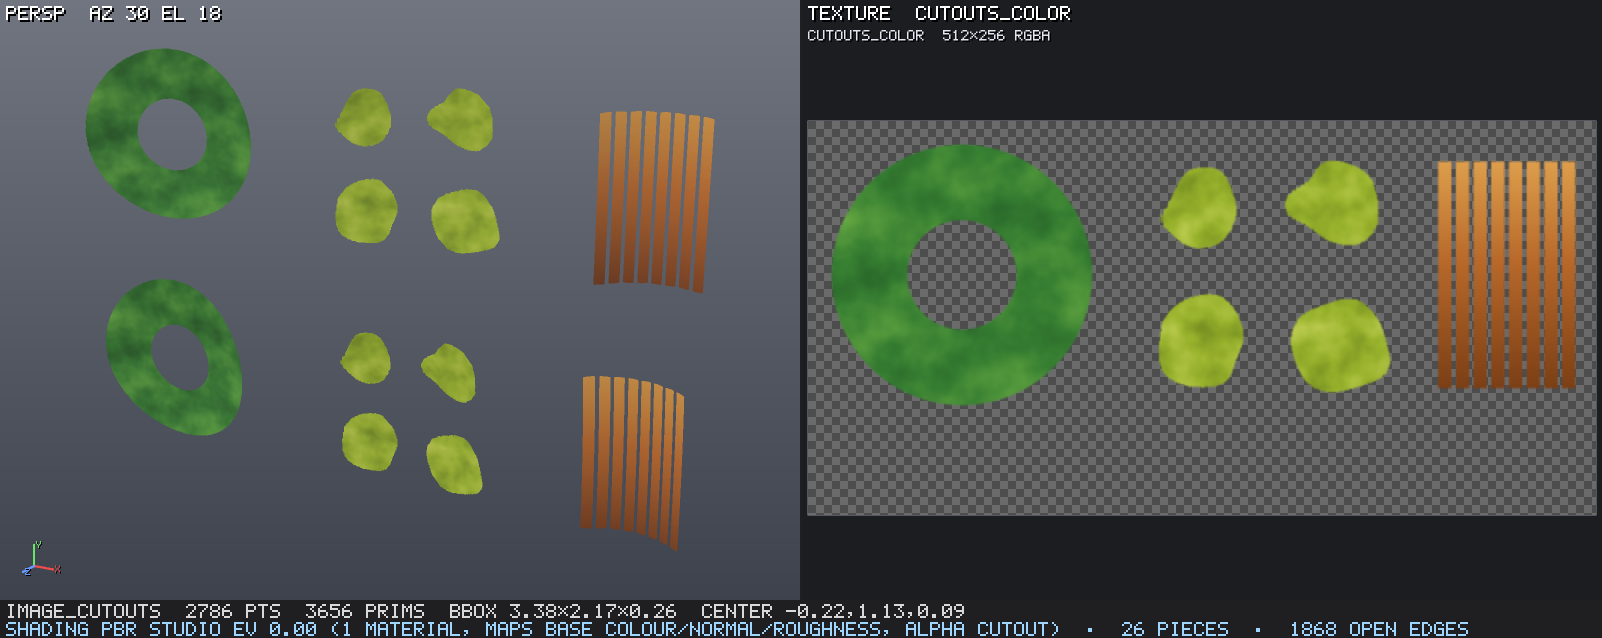
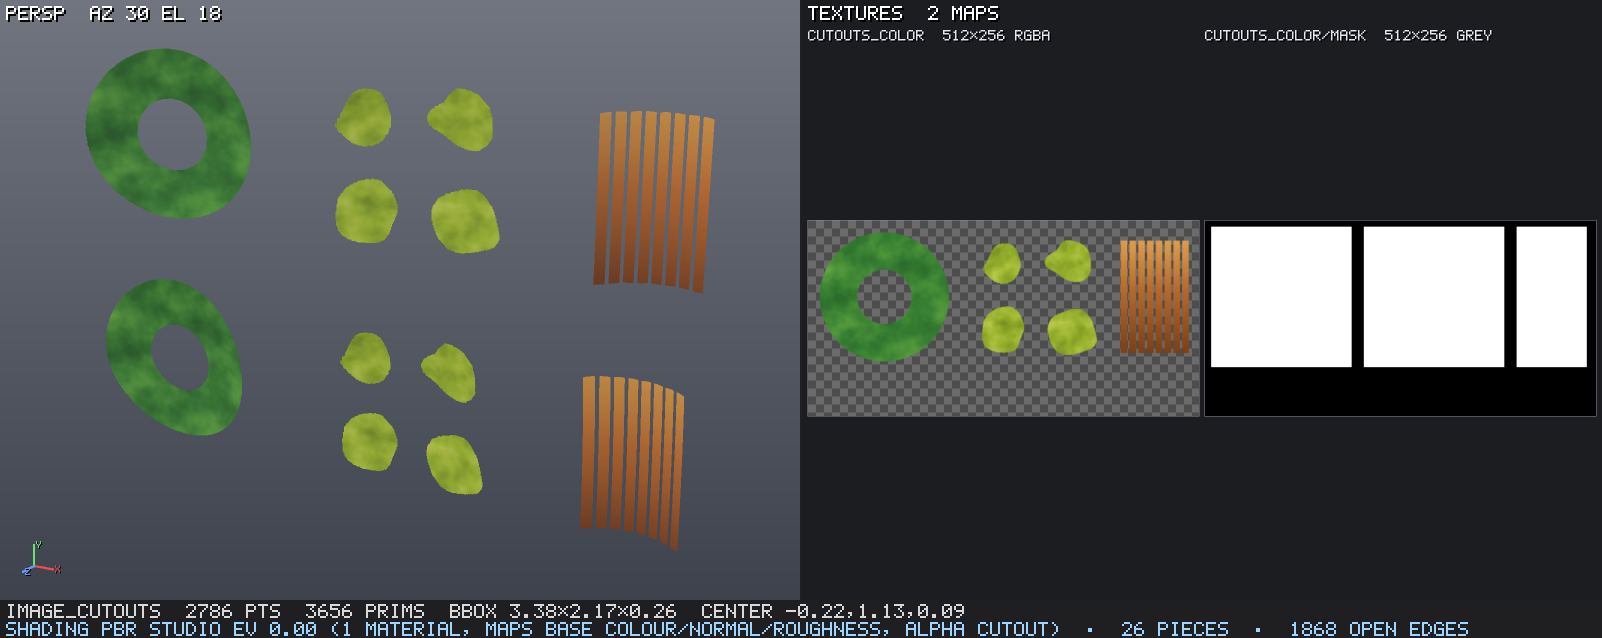
Goldens, node docs and the cutouts render for exact heightfield sizes and the pack's mask layer
Moved goldens, each confirmed from the diff: heightfield_to_tex image size 4.1 to 4 and eroded_valley image size 401.5625 to
400 (the image covers the extent, so the round trip is exact); tex_pack gains a mask layer, and so do the three images of
image_cutouts. The cutouts render differs only in its texture pane, which now lists the mask as a second map; the viewport is
unchanged.

Changed region(s): [[0.4994, 0.1787, 0.9988, 0.8339], [0.7491, 0.0298, 0.9363, 0.0893], [0.5618, 0.0, 0.6866, 0.0596]]

diff --git a/docs/nodes.md b/docs/nodes.md
@@ -2088,7 +2088,7 @@ Traces pixel-cell boundaries (not a bounding rectangle). Foreground is 4-connect
 | `threshold` | float | `0.5` |  |  |  | values at least this threshold are foreground |
 | `tolerance` | float | `0.5` | 0..8192 |  |  | maximum contour simplification error in source pixels; 0 only removes collinear points |
 | `min_area` | float | `0` | 0..16777216 |  |  | minimum connected foreground component area in pixels; 0 retains all components |
-| `extent` | float | `0` | 0.. |  |  | full image canvas width in metres; height follows image aspect (0 = the metres the image covers: its size) |
+| `extent` | float | `0` | 0.. |  |  | full image canvas width in metres; height follows image aspect (0 = the metres the image states it covers: texture_size set on its generator, or a bake; refused when it states none) |
 
 **Writes:** closed curves; point uv; prim class (component ID), contour_id and hole (0/1); detail image_size and image_width
 
@@ -2104,6 +2104,7 @@ Traces pixel-cell boundaries (not a bounding rectangle). Foreground is 4-connect
           64,
           32
         ],
+        "texture_size": 1,
         "shape": "disc",
         "falloff": 0
       }
@@ -13563,7 +13564,7 @@ Houdini COP: File; Substance: Bitmap. The image is named after this node, like e
 | `name` | string | `""` |  |  | `image_name`, `output_name` | image name ("" = this node's name); materials reference it as "image:<name>" |
 | `layers` | enum | `"auto"` |  | `auto`, `grey`, `rgba` | `channels` | auto = grey for grey PNGs (1–2 channels), RGBA for colour ones; grey = the luminance of a colour file; rgba = always four channels |
 | `srgb` | bool | `true` |  |  |  | the file holds display (sRGB) values: kept as stored, like every colour in the engine (masks and data maps load unchanged too); off = it holds linear-light colour, encoded to display values on load (alpha never) |
-| `texture_size` | float | `1` | 0.000001.. |  | `world_size`, `tile_size`, `image_width` | metres the image's width covers on the model (one texel is texture_size / width metres): the image carries it, and every filter after this node reads its lengths in metres against it |
+| `texture_size` | float | `1` | 0.000001.. |  | `world_size`, `tile_size`, `image_width` | metres the image's width covers on the model (one texel is texture_size / width metres): the image carries it, and every filter after this node reads its lengths in metres against it. Leave it out and the image has the size 1 m but states none: tex_to_heightfield and trace_image then need an extent |
 
 **Writes:** image <name> (default: the node name): C grey or RGBA 0..1; A grey (the file's alpha, for a grey image of a file with alpha)
 
@@ -13887,7 +13888,7 @@ Substance: Blur HQ; Houdini COP: Blur. blur is the radius in metres (gaussian: r
 
 | name | type | default | min..max | options | aliases | description |
 |---|---|---|---|---|---|---|
-| `blur` | float | `0.008` | 0.. |  | `blur_radius` | blur radius in metres (on an atlas: on every island, whatever its texel density) |
+| `blur` | float | `0.008` | 0.. |  | `blur_radius` | blur radius in metres (on an atlas: on every island, whatever its texel density). The default, 8 mm, is 4 pixels only on 512 pixels over 1 m: on another resolution or size it is another number of pixels |
 | `mode` | enum | `"gaussian"` |  | `gaussian`, `box` | `type`, `filter` | filter shape |
 | `tileable` | bool | `true` |  |  | `wrap`, `seamless` | the image tiles: filters read across the opposite border (keep a tileable texture tileable) |
 | `image` | string | `""` |  |  | `input_image`, `source_image` | which image of the input to use ("" = its only image; needed when it holds several) |
@@ -13942,7 +13943,7 @@ None (generator).
 | `edge_width` | float | `0.1` | 0.001..1 |  | `width`, `border` | edges: border width (fraction of a cell) |
 | `metric` | enum | `"euclidean"` |  | `euclidean`, `manhattan`, `chebyshev` |  | distance metric (manhattan = diamond cells, chebyshev = square cells) |
 | `tileable` | bool | `true` |  |  | `tile`, `tiling`, `seamless` | repeat seamlessly at the image borders |
-| `texture_size` | float | `1` | 0.000001.. |  | `world_size`, `tile_size`, `image_width` | metres the image's width covers on the model (one texel is texture_size / width metres): the image carries it, and every filter after this node reads its lengths in metres against it |
+| `texture_size` | float | `1` | 0.000001.. |  | `world_size`, `tile_size`, `image_width` | metres the image's width covers on the model (one texel is texture_size / width metres): the image carries it, and every filter after this node reads its lengths in metres against it. Leave it out and the image has the size 1 m but states none: tex_to_heightfield and trace_image then need an extent |
 | `seed` | float | `0` |  |  |  | random seed |
 | `name` | string | `""` |  |  | `image_name`, `output_name` | image name ("" = this node's name); materials reference it as "image:<name>" |
 
@@ -14163,7 +14164,7 @@ Substance: Uniform Color; Houdini COP: Constant. channels grey fills layer C wit
 | `value` | float | `0.5` |  |  | `grey`, `level` | grey: the value of every pixel |
 | `color` | color | `[0.5,0.5,0.5]` |  |  | `rgb`, `colour` | rgba: the colour of every pixel |
 | `alpha` | float | `1` | 0..1 |  |  | rgba: the alpha of every pixel |
-| `texture_size` | float | `1` | 0.000001.. |  | `world_size`, `tile_size`, `image_width` | metres the image's width covers on the model (one texel is texture_size / width metres): the image carries it, and every filter after this node reads its lengths in metres against it |
+| `texture_size` | float | `1` | 0.000001.. |  | `world_size`, `tile_size`, `image_width` | metres the image's width covers on the model (one texel is texture_size / width metres): the image carries it, and every filter after this node reads its lengths in metres against it. Leave it out and the image has the size 1 m but states none: tex_to_heightfield and trace_image then need an extent |
 | `image` | string | `""` |  |  | `input_image`, `source_image` | which image of input 0 (the size source) to use ("" = its only image; needed when it holds several) |
 | `name` | string | `""` |  |  | `image_name`, `output_name` | image name ("" = this node's name); materials reference it as "image:<name>" |
 
@@ -14426,7 +14427,7 @@ Validity comes from RGBA alpha or an explicit, same-sized mask. Grey images need
 | `image` | string | `""` |  |  | `input_image`, `source_image` | which image of the input to use ("" = its only image; needed when it holds several) |
 | `layer` | string | `""` |  |  |  | layer name (empty selects the main layer) |
 | `name` | string | `""` |  |  | `image_name`, `output_name` | name of the result ("" = this node's name; an image already so called is replaced); materials reference it as "image:<name>" |
-| `distance` | float | `0.016` | 0.. |  | `padding` | maximum Euclidean distance in metres from a valid source (on an atlas: on every island, whatever its texel density) |
+| `distance` | float | `0.016` | 0.. |  |  | maximum Euclidean distance in metres from a valid source (on an atlas: on every island, whatever its texel density). The default, 16 mm, is 8 pixels only on 512 pixels over 1 m: on another resolution or size it is another number of pixels |
 | `mask_image` | string | `""` |  |  |  | which image of input 1 (the mask) to use ("" = its only image; needed when it holds several) |
 | `mask_layer` | string | `""` |  |  |  | layer name (empty selects the main layer) |
 | `mask_channel` | enum | `"luminance"` |  | `alpha`, `luminance`, `r`, `g`, `b` |  | channel to read; alpha requires RGBA, luminance/R/G/B accept grey |
@@ -14724,7 +14725,7 @@ None (generator).
 | `angle` | float | `0` |  |  | `rotation`, `direction` | direction in degrees (linear, mirror) or start angle (angular) |
 | `center` | vec2 | `[0.5,0.5]` |  |  |  | centre in uv (radial, diamond, angular) |
 | `reach` | float | `0.5` | 0.001.. |  |  | radial / diamond: distance in metres from the centre where the gradient reaches 1 (a circle in metres whatever the image's shape) |
-| `texture_size` | float | `1` | 0.000001.. |  | `world_size`, `tile_size`, `image_width` | metres the image's width covers on the model (one texel is texture_size / width metres): the image carries it, and every filter after this node reads its lengths in metres against it |
+| `texture_size` | float | `1` | 0.000001.. |  | `world_size`, `tile_size`, `image_width` | metres the image's width covers on the model (one texel is texture_size / width metres): the image carries it, and every filter after this node reads its lengths in metres against it. Leave it out and the image has the size 1 m but states none: tex_to_heightfield and trace_image then need an extent |
 | `name` | string | `""` |  |  | `image_name`, `output_name` | image name ("" = this node's name); materials reference it as "image:<name>" |
 
 **Writes:** image <name> (default: the node name): C grey 0..1
@@ -14765,7 +14766,7 @@ None (generator).
 | `contrast` | float | `0.6` | 0..1 |  | `hardness` | edge hardness (1 = hard) |
 | `detail` | float | `0.4` | 0..1 |  | `breakup` | fine breakup mixed in (0 = smooth shapes) |
 | `tileable` | bool | `true` |  |  | `tile`, `tiling`, `seamless` | repeat seamlessly at the image borders |
-| `texture_size` | float | `1` | 0.000001.. |  | `world_size`, `tile_size`, `image_width` | metres the image's width covers on the model (one texel is texture_size / width metres): the image carries it, and every filter after this node reads its lengths in metres against it |
+| `texture_size` | float | `1` | 0.000001.. |  | `world_size`, `tile_size`, `image_width` | metres the image's width covers on the model (one texel is texture_size / width metres): the image carries it, and every filter after this node reads its lengths in metres against it. Leave it out and the image has the size 1 m but states none: tex_to_heightfield and trace_image then need an extent |
 | `seed` | float | `0` |  |  |  | random seed |
 | `name` | string | `""` |  |  | `image_name`, `output_name` | image name ("" = this node's name); materials reference it as "image:<name>" |
 
@@ -15345,7 +15346,7 @@ None (generator).
 | `jitter` | float | `1` | 0..1 |  |  | worley: randomness of the feature points (0 = regular grid) |
 | `shift` | vec2 | `[0,0]` |  |  | `translate` | shift of the noise field in metres (vary or animate without changing the seed) |
 | `tileable` | bool | `true` |  |  | `tile`, `tiling`, `seamless` | repeat seamlessly at the image borders |
-| `texture_size` | float | `1` | 0.000001.. |  | `world_size`, `tile_size`, `image_width` | metres the image's width covers on the model (one texel is texture_size / width metres): the image carries it, and every filter after this node reads its lengths in metres against it |
+| `texture_size` | float | `1` | 0.000001.. |  | `world_size`, `tile_size`, `image_width` | metres the image's width covers on the model (one texel is texture_size / width metres): the image carries it, and every filter after this node reads its lengths in metres against it. Leave it out and the image has the size 1 m but states none: tex_to_heightfield and trace_image then need an extent |
 | `seed` | float | `0` |  |  |  | random seed |
 | `name` | string | `""` |  |  | `image_name`, `output_name` | image name ("" = this node's name); materials reference it as "image:<name>" |
 
@@ -15680,7 +15681,7 @@ category: `texture`
 
 Pack named images into aligned atlases and output per-item UV placement attributes.
 
-items is [{name:"leaf",maps:{color:"leaf_color",normal:"leaf_normal"}}]. Empty items packs each input image under the channel C. Every item must have the same map labels; images within an item must match dimensions and images within a channel must have matching channel counts. The selected images use their main layer. Native resolution, no rotation/downscaling, zero gutters. Outputs <name>_<channel> images and placement points in item order. rect is [x,y,width,height] in top-left pixels; atlasUV = localUV * uv_scale + uv_offset (V up). Connect the image output to texture_to_material and read placement attributes with a wrangle; do not merge placement points into your mesh. The atlas images carry a texel layer (the own texel size of each item) and an island layer (one island per item, its gutter included, background between them), so the filters after it work in metres on each item and tex_dilate pads inside it. Padding is separate: tex_dilate. Limits: 4096 items, normal per-image pixel limit, at most 1 GiB of output image layers.
+items is [{name:"leaf",maps:{color:"leaf_color",normal:"leaf_normal"}}]. Empty items packs each input image under the channel C. Every item must have the same map labels; images within an item must match dimensions and images within a channel must have matching channel counts. The selected images use their main layer. Native resolution, no rotation/downscaling, zero gutters. Outputs <name>_<channel> images and placement points in item order. rect is [x,y,width,height] in top-left pixels; atlasUV = localUV * uv_scale + uv_offset (V up). Connect the image output to texture_to_material and read placement attributes with a wrangle; do not merge placement points into your mesh. The atlas images carry a texel layer (the own texel size of each item) and an island layer (one island per item, its gutter included, background between them) and a mask layer (the own pixels of the item: its gutter is padding, so a blur does not pull the empty gutter into the item and a distance does not take it for surface), so the filters after it work in metres on each item and tex_dilate pads inside it. Padding is separate: tex_dilate. Limits: 4096 items, normal per-image pixel limit, at most 1 GiB of output image layers.
 
 **Inputs**
 
@@ -15766,7 +15767,7 @@ None (generator).
 | `gap` | float | `0.06` | 0..1 |  | `mortar`, `spacing` | mortar / gap width as a fraction of the smaller cell side (dots: 1 - diameter) |
 | `bevel` | float | `0.08` | 0..1 |  | `smooth`, `roundness` | bevel width as a fraction of the smaller cell side (0 = hard antialiased edge) |
 | `variation` | float | `0` | 0..1 |  | `height_variation`, `luminance_random` | random darkening per cell (0 = all cells 1; not grid or checker) |
-| `texture_size` | float | `1` | 0.000001.. |  | `world_size`, `tile_size`, `image_width` | metres the image's width covers on the model (one texel is texture_size / width metres): the image carries it, and every filter after this node reads its lengths in metres against it |
+| `texture_size` | float | `1` | 0.000001.. |  | `world_size`, `tile_size`, `image_width` | metres the image's width covers on the model (one texel is texture_size / width metres): the image carries it, and every filter after this node reads its lengths in metres against it. Leave it out and the image has the size 1 m but states none: tex_to_heightfield and trace_image then need an extent |
 | `seed` | float | `0` |  |  |  | random seed |
 | `name` | string | `""` |  |  | `image_name`, `output_name` | image name ("" = this node's name); materials reference it as "image:<name>" |
 
@@ -15863,7 +15864,7 @@ None (generator).
 | `curvature` | float | `0.1` | 0..1 |  |  | sideways bend as a fraction of the length |
 | `intensity` | vec2 | `[0.4,1]` | 0.. |  |  | intensity range of a stroke |
 | `tileable` | bool | `true` |  |  | `tile`, `wrap` | strokes wrap at the borders |
-| `texture_size` | float | `1` | 0.000001.. |  | `world_size`, `tile_size`, `image_width` | metres the image's width covers on the model (one texel is texture_size / width metres): the image carries it, and every filter after this node reads its lengths in metres against it |
+| `texture_size` | float | `1` | 0.000001.. |  | `world_size`, `tile_size`, `image_width` | metres the image's width covers on the model (one texel is texture_size / width metres): the image carries it, and every filter after this node reads its lengths in metres against it. Leave it out and the image has the size 1 m but states none: tex_to_heightfield and trace_image then need an extent |
 | `seed` | float | `0` |  |  |  | random seed |
 | `name` | string | `""` |  |  | `image_name`, `output_name` | image name ("" = this node's name); materials reference it as "image:<name>" |
 
@@ -16115,7 +16116,7 @@ None (generator).
 | `rotation` | float | `0` |  |  | `angle`, `rotate` | rotation in degrees (counter-clockwise) |
 | `center` | vec2 | `[0.5,0.5]` |  |  | `position` | centre in each tile's uv (0.5, 0.5 = the middle) |
 | `tile` | ivec2 | `[1,1]` | 1..512 |  | `tiling`, `repeat`, `count` | repeats along u and v |
-| `texture_size` | float | `1` | 0.000001.. |  | `world_size`, `tile_size`, `image_width` | metres the image's width covers on the model (one texel is texture_size / width metres): the image carries it, and every filter after this node reads its lengths in metres against it |
+| `texture_size` | float | `1` | 0.000001.. |  | `world_size`, `tile_size`, `image_width` | metres the image's width covers on the model (one texel is texture_size / width metres): the image carries it, and every filter after this node reads its lengths in metres against it. Leave it out and the image has the size 1 m but states none: tex_to_heightfield and trace_image then need an extent |
 | `tileable` | bool | `true` |  |  | `wrap`, `seamless` | the grid of shapes continues past the borders (the field tiles) |
 | `name` | string | `""` |  |  | `image_name`, `output_name` | image name ("" = this node's name); materials reference it as "image:<name>" |
 
@@ -16228,7 +16229,7 @@ None (generator).
 | `rotation` | float | `0` |  |  | `angle`, `rotate` | rotation in degrees (counter-clockwise) |
 | `falloff` | float | `0` | 0..1 |  | `softness`, `blur` | soft edge as a fraction of the radius (0 = antialiased hard edge, 1 = a cone) |
 | `tile` | ivec2 | `[1,1]` | 1..512 |  | `tiling`, `repeat`, `count` | repeats along u and v |
-| `texture_size` | float | `1` | 0.000001.. |  | `world_size`, `tile_size`, `image_width` | metres the image's width covers on the model (one texel is texture_size / width metres): the image carries it, and every filter after this node reads its lengths in metres against it |
+| `texture_size` | float | `1` | 0.000001.. |  | `world_size`, `tile_size`, `image_width` | metres the image's width covers on the model (one texel is texture_size / width metres): the image carries it, and every filter after this node reads its lengths in metres against it. Leave it out and the image has the size 1 m but states none: tex_to_heightfield and trace_image then need an extent |
 | `name` | string | `""` |  |  | `image_name`, `output_name` | image name ("" = this node's name); materials reference it as "image:<name>" |
 
 **Writes:** image <name> (default: the node name): C grey 0..1
@@ -16347,7 +16348,7 @@ None (generator).
 | `intensity` | vec2 | `[0.5,1]` | 0.. |  |  | intensity range of a blob |
 | `combine` | enum | `"max"` |  | `max`, `add` | `blend` | how overlapping blobs combine |
 | `tileable` | bool | `true` |  |  | `tile`, `wrap` | blobs wrap at the borders |
-| `texture_size` | float | `1` | 0.000001.. |  | `world_size`, `tile_size`, `image_width` | metres the image's width covers on the model (one texel is texture_size / width metres): the image carries it, and every filter after this node reads its lengths in metres against it |
+| `texture_size` | float | `1` | 0.000001.. |  | `world_size`, `tile_size`, `image_width` | metres the image's width covers on the model (one texel is texture_size / width metres): the image carries it, and every filter after this node reads its lengths in metres against it. Leave it out and the image has the size 1 m but states none: tex_to_heightfield and trace_image then need an extent |
 | `seed` | float | `0` |  |  |  | random seed |
 | `name` | string | `""` |  |  | `image_name`, `output_name` | image name ("" = this node's name); materials reference it as "image:<name>" |
 
@@ -16393,7 +16394,7 @@ None (generator).
 | `text_height` | float | `0.2` | 0.00001.. |  |  | height of the text block in metres (shrunk to fit the width) |
 | `position` | vec2 | `[0.5,0.5]` |  |  | `center` | centre of the text in uv |
 | `align` | enum | `"center"` |  | `left`, `center`, `right` |  | horizontal alignment of lines |
-| `texture_size` | float | `1` | 0.000001.. |  | `world_size`, `tile_size`, `image_width` | metres the image's width covers on the model (one texel is texture_size / width metres): the image carries it, and every filter after this node reads its lengths in metres against it |
+| `texture_size` | float | `1` | 0.000001.. |  | `world_size`, `tile_size`, `image_width` | metres the image's width covers on the model (one texel is texture_size / width metres): the image carries it, and every filter after this node reads its lengths in metres against it. Leave it out and the image has the size 1 m but states none: tex_to_heightfield and trace_image then need an extent |
 | `name` | string | `""` |  |  | `image_name`, `output_name` | image name ("" = this node's name); materials reference it as "image:<name>" |
 
 **Writes:** image <name> (default: the node name): C grey 0..1
@@ -16495,7 +16496,7 @@ Substance: Tile Sampler / Splatter Circular. One instance per grid cell: positio
 | `output` | enum | `"grey"` |  | `grey`, `id`, `color` | `mode`, `output_type` | grey = the stamps; id = a random grey per instance; color = a random colour per instance (alpha = the stamps) |
 | `stamps` | enum | `"one"` |  | `one`, `random` | `pattern_input`, `pattern_select` | one = the image picked by image; random = every image of input 0, one at random per instance |
 | `tileable` | bool | `true` |  |  | `wrap`, `seamless` | instances wrap at the borders (the result tiles) |
-| `texture_size` | float | `1` | 0.000001.. |  | `world_size`, `tile_size`, `image_width` | metres the image's width covers on the model (one texel is texture_size / width metres): the image carries it, and every filter after this node reads its lengths in metres against it |
+| `texture_size` | float | `1` | 0.000001.. |  | `world_size`, `tile_size`, `image_width` | metres the image's width covers on the model (one texel is texture_size / width metres): the image carries it, and every filter after this node reads its lengths in metres against it. Leave it out and the image has the size 1 m but states none: tex_to_heightfield and trace_image then need an extent |
 | `seed` | float | `0` |  |  |  | random seed |
 | `image` | string | `""` |  |  | `input_image`, `source_image` | which image of input 0 (the pattern) to use ("" = its only image; needed when it holds several) |
 | `layer` | string | `""` |  |  | `plane`, `channel_layer` | layer to process ("" = the main layer "C"; others: "id", "mask", …) |
@@ -16547,7 +16548,7 @@ category: `texture` · aliases: `image_to_heightfield`, `texture_to_heightfield`
 
 Bridge: an image (grey or luminance) becomes a heightfield of the same sample count (u → +X, v → −Z).
 
-Both are 2D grids: image pixel (i, j) becomes heightfield sample (i, j) (row 0 = the image top = −Z side), height = value × height_scale + height_offset + center.y. size sets the extent in metres along X (Z follows the image aspect). Use texture generators as terrain stamps, or heightfield_to_tex to go back. Writing another layer (layer_name "mask") keeps height at center.y + height_offset.
+Both are 2D grids: image pixel (i, j) becomes heightfield sample (i, j) (row 0 = the image top = −Z side), height = value × height_scale + height_offset + center.y. extent is the extent in metres along X (Z follows the image aspect): give it, or the image must state how many metres it covers (a bake writes it, a generator states it when its texture_size is set, 1 included; a generator left at the default states nothing), else the node refuses, as there is no default size. The samples sit on the grid nodes, so a heightfield of extent E and an image of w pixels have a cell of E / (w - 1), and heightfield_to_tex writes an image covering the extent: the round trip keeps it exactly. Use texture generators as terrain stamps, or heightfield_to_tex to go back. Writing another layer (layer_name "mask") keeps height at center.y + height_offset.
 
 **Inputs**
 
@@ -16559,7 +16560,7 @@ Both are 2D grids: image pixel (i, j) becomes heightfield sample (i, j) (row 0 =
 
 | name | type | default | min..max | options | aliases | description |
 |---|---|---|---|---|---|---|
-| `extent` | float | `0` | 0.. |  |  | extent along X in metres (0 = the metres the image covers: its size) |
+| `extent` | float | `0` | 0.. |  |  | extent along X in metres; 0 = the metres the image covers (its size, when the image states one: a texture_size set on its generator, 1 included, or a bake), and a refusal when it states none |
 | `height_scale` | float | `1` |  |  | `amplitude` | metres per unit of image value |
 | `height_offset` | float | `0` |  |  |  | added height (metres) |
 | `center` | vec3 | `[0,0,0]` |  |  | `t`, `translate`, `position`, `pos`, `origin` | center position |
